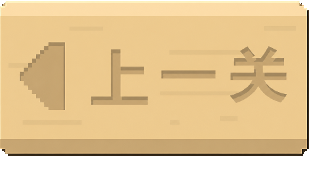
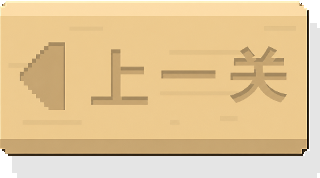
fix:修改bug

Changed region(s): [[0.0312, 0.1124, 1.0, 1.0]]

diff --git a/js/game.js b/js/game.js
@@ -29,6 +29,9 @@
 
 // ========== 游戏状态 ==========
         let currentLevel = 0;
+        let maxUnlockedLevel = 0;
+        let progressTracking = true;
+        const PROGRESS_STORAGE_KEY = 'slideweb-max-unlocked-level';
         let grid = [];
         let ROWS = 6;
         let COLS = 6;
@@ -167,6 +170,47 @@
         };
 
         // ========== 工具函数 ==========
+        function loadLevelProgress() {
+            try {
+                const raw = localStorage.getItem(PROGRESS_STORAGE_KEY);
+                const value = Number(raw);
+                maxUnlockedLevel = Number.isFinite(value) && value >= 0 ? Math.floor(value) : 0;
+            } catch {
+                maxUnlockedLevel = 0;
+            }
+        }
+
+        function saveLevelProgress() {
+            try {
+                localStorage.setItem(PROGRESS_STORAGE_KEY, String(maxUnlockedLevel));
+            } catch {
+                // ignore quota / private mode failures
+            }
+        }
+
+        function clampLevelProgress() {
+            if (!LEVEL_CONFIGS.length) {
+                maxUnlockedLevel = 0;
+                return;
+            }
+            maxUnlockedLevel = Math.max(0, Math.min(maxUnlockedLevel, LEVEL_CONFIGS.length - 1));
+        }
+
+        function unlockNextLevelProgress() {
+            if (!progressTracking || !LEVEL_CONFIGS.length) return;
+            const unlocked = Math.min(currentLevel + 1, LEVEL_CONFIGS.length - 1);
+            if (unlocked > maxUnlockedLevel) {
+                maxUnlockedLevel = unlocked;
+                saveLevelProgress();
+            }
+        }
+
+        function canSkipToNextLevel() {
+            if (!LEVEL_CONFIGS.length) return false;
+            if (!progressTracking) return currentLevel < LEVEL_CONFIGS.length - 1;
+            return currentLevel < maxUnlockedLevel && currentLevel < LEVEL_CONFIGS.length - 1;
+        }
+
         function getCellPixelPosition(row, col) {
             const cell = getCellElement(row, col);
             if (!cell) return { left: 0, top: 0 };
@@ -299,11 +343,13 @@
 
         async function goNextLevel() {
             if (isMoving || isTransitioning) return;
-            if (currentLevel < LEVEL_CONFIGS.length - 1) {
+            if (canSkipToNextLevel()) {
                 showGameScene();
                 await transitionToLevel(currentLevel + 1);
-            } else {
+            } else if (currentLevel >= LEVEL_CONFIGS.length - 1) {
                 showGameModal('狼来了通关', '小羊都走过了山路，回到首页可以重新开始。');
+            } else {
+                messageDisplay.textContent = '请先通关当前关卡，才能进入下一关';
             }
         }
 
@@ -347,6 +393,8 @@
             LEVEL_CONFIGS.length = 0;
             LEVEL_CONFIGS.push(...levelConfigs);
             levelsReady = levelConfigs.length > 0;
+            progressTracking = true;
+            clampLevelProgress();
             currentLevel = levelsReady ? Math.min(currentLevel, levelConfigs.length - 1) : 0;
             return levelsReady;
         }
@@ -525,6 +573,7 @@
             LEVEL_CONFIGS.length = 0;
             LEVEL_CONFIGS.push(level);
             levelsReady = true;
+            progressTracking = false;
             await transitionToLevel(0);
             showGameScene();
         }
@@ -1184,6 +1233,7 @@
                 if (status === 'win') {
                     gameOver = true;
                     messageDisplay.textContent = '成功，小羊已逃进羊村';
+                    unlockNextLevelProgress();
 
                     if (currentLevel < LEVEL_CONFIGS.length - 1) {
                         showGameModal('逃跑成功', '小羊成功逃脱，继续穿过下一条山路。', { showNext: true });
@@ -1321,18 +1371,23 @@
                 }
             });
             document.getElementById('nextLevelBtn').addEventListener('click', async () => {
-                if (currentLevel < LEVEL_CONFIGS.length - 1 && !isMoving && !isTransitioning) {
+                if (isMoving || isTransitioning) return;
+                if (canSkipToNextLevel()) {
                     await transitionToLevel(currentLevel + 1);
-                } else if (currentLevel === LEVEL_CONFIGS.length - 1) {
+                } else if (currentLevel >= LEVEL_CONFIGS.length - 1) {
                     messageDisplay.textContent = '狼来了已经走到终章';
+                } else {
+                    messageDisplay.textContent = '请先通关当前关卡，才能进入下一关';
                 }
             });
         }
 
         async function bootGame() {
+            loadLevelProgress();
             await loadLevelData();
             if (levelsReady) {
-                loadLevel(0);
+                currentLevel = Math.min(currentLevel, maxUnlockedLevel);
+                loadLevel(currentLevel);
             }
             showStartScreen();
             syncEditorSizeInputs();